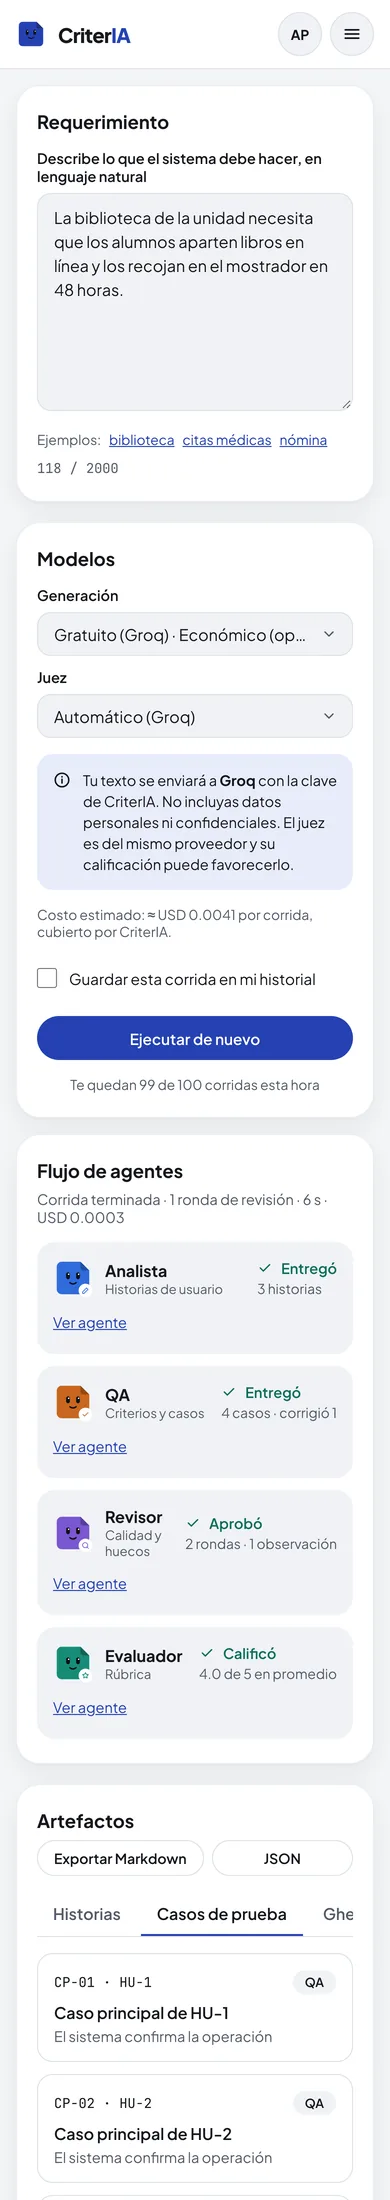
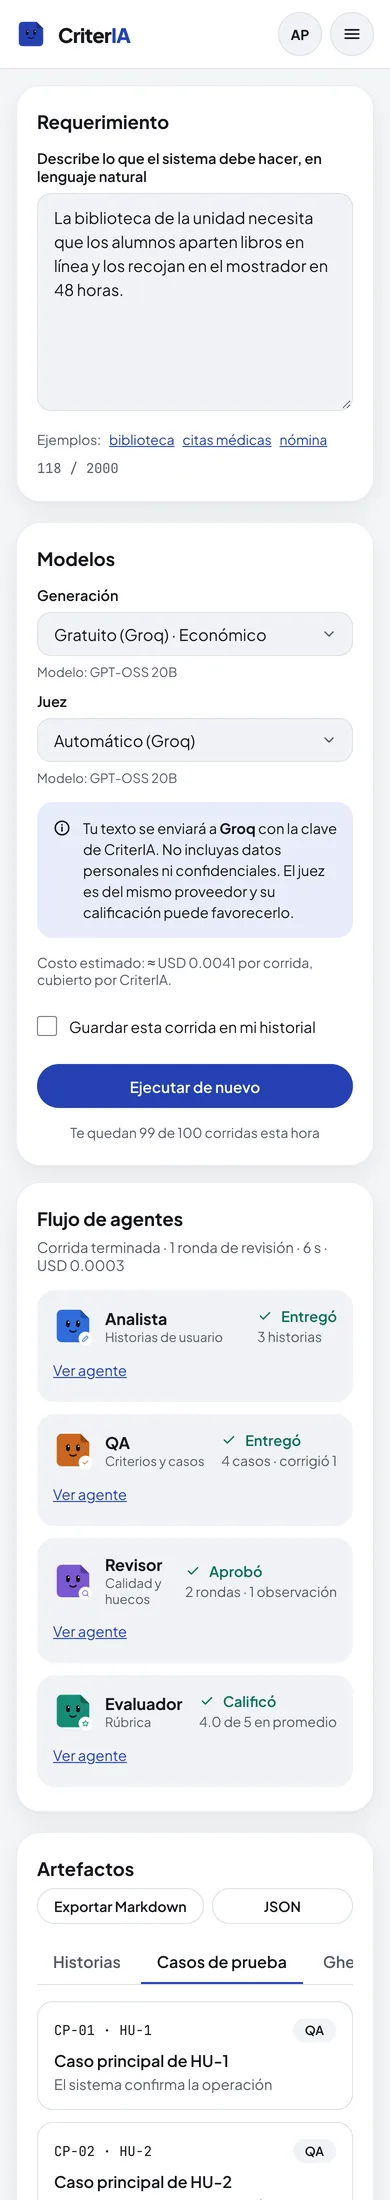
docs: document long lists and model names and refresh the README screenshots

diff --git a/docs/ui.md b/docs/ui.md
@@ -44,6 +44,17 @@ Reglas:
 - El panel del agente se desliza desde el borde derecho; al cerrar, incluido con Escape, el diálogo espera a que termine la salida antes de cerrarse.
 - Con `prefers-reduced-motion: reduce`, los tokens de distancia valen cero y la escala vale 1: las entradas quedan en un fundido, el panel aparece sin deslizarse, y los bucles (pulso de los esqueletos, parpadeo y balanceo de la Ficha) se detienen.
 
+## Listas largas en la vista de corrida
+
+La página no crece sin límite:
+
+- **Registro.** La tarjeta muestra los últimos 5 eventos y el botón "Ver registro completo (N)" abre un panel lateral (`Drawer`, con el mismo movimiento que el panel del agente) con la línea de tiempo completa y un filtro por agente. El panel lee el mismo estado en vivo, así que la corrida sigue avanzando con el panel abierto: el stream pertenece a la página ([ADR 0018](adr/0018-run-lifecycle-bound-to-the-stream.md)) y abrirlo no abre otra conexión.
+- **Artefactos.** Historias, Casos de prueba, Gherkin y Observaciones se paginan dentro de la tarjeta, 10 por página, con `Paged` (`shared/ui/paged`): "Anterior", "Siguiente" (con `aria-disabled` en los extremos, para no perder el foco) y "Página X de Y" anunciado con `aria-live`. Todas las páginas ocupan la misma celda de la cuadrícula y solo la actual es visible (las demás con `visibility: hidden` e `inert`), de modo que la tarjeta conserva la altura de su página más alta y cambiar de página no mueve nada. La exportación siempre incluye todo.
+
+## Nombres de modelos
+
+La interfaz nunca muestra identificadores como `groq:openai/gpt-oss-20b`. Usa "Proveedor · display_name" ("Groq · GPT-OSS 20B") con el `display_name` del catálogo (`services/api/config/models.toml`), que la API entrega en `GET /catalog`, en el historial y en la evaluación. Los selectores de modelo muestran proveedor y nivel, y el modelo va en una línea secundaria debajo, enlazada con `aria-describedby`, para que la opción nunca se corte.
+
 ## Verificación
 
 Las pruebas de pantallas de Playwright (`apps/web/e2e/screens`) corren en escritorio y 390 px, en claro y oscuro. En cada captura esperan a que terminen las animaciones finitas, pasan axe, verifican que no haya violaciones de CSP y, a 390 px, fallan si la página se desborda a lo ancho. Otra prueba confirma que con movimiento reducido los tokens de distancia valen cero.
